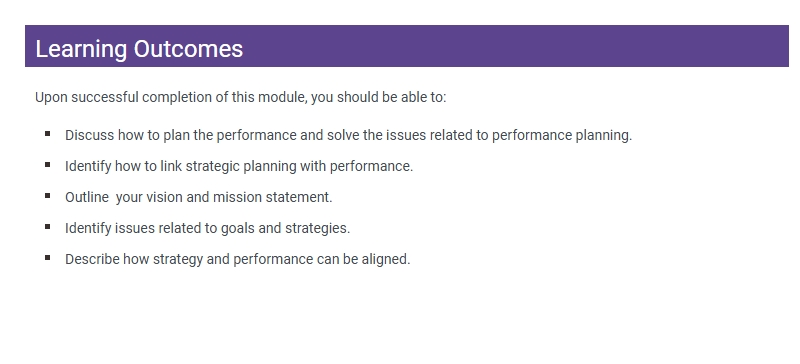
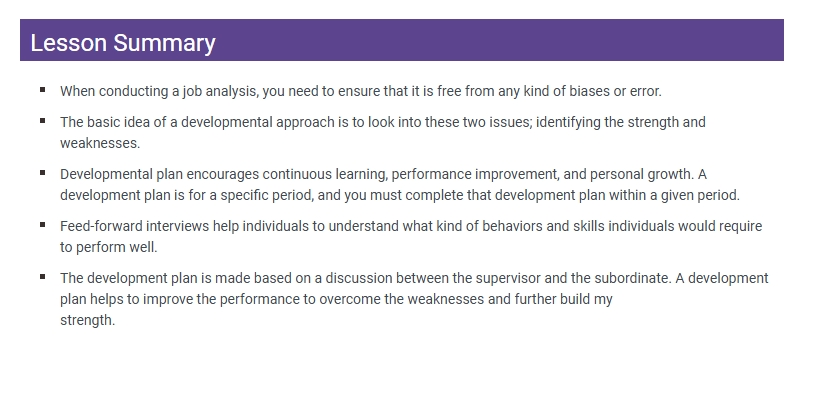
feat: add 14 more lessons to Diploma in strategic performance management (39 total)

Changed region(s): [[0.0, 0.0302, 1.0, 0.3324], [0.0312, 0.5137, 0.9375, 0.7857], [0.0625, 0.3324, 0.9062, 0.4835]]

diff --git a/backend/add_strategic_performance_more2.py b/backend/add_strategic_performance_more2.py
@@ -1,0 +1,62 @@
+#!/usr/bin/env python3
+import asyncio
+from motor.motor_asyncio import AsyncIOMotorClient
+import os
+from dotenv import load_dotenv
+from pathlib import Path
+import uuid
+
+ROOT_DIR = Path(__file__).parent
+load_dotenv(ROOT_DIR / '.env')
+client = AsyncIOMotorClient(os.environ['MONGO_URL'])
+db = client[os.environ['DB_NAME']]
+
+BASE_URL = "https://flowlms-production.up.railway.app"
+
+LESSONS = [
+    {"title": "Strategic Performance Diagram 5", "type": "image", "url": f"{BASE_URL}/uploads/images/HR/strategic_performance_management/strategic_performance_005.jpeg"},
+    {"title": "Strategic Performance Diagram 6", "type": "image", "url": f"{BASE_URL}/uploads/images/HR/strategic_performance_management/strategic_performance_006.jpeg"},
+    {"title": "Strategic Performance Diagram 7", "type": "image", "url": f"{BASE_URL}/uploads/images/HR/strategic_performance_management/strategic_performance_007.jpeg"},
+    {"title": "Performance (Determinants & Factors)", "type": "embed", "vimeo": "416548652"},
+    {"title": "Dimensions of Performance (Task & Context)", "type": "embed", "vimeo": "416549247"},
+    {"title": "Behavior Approach", "type": "embed", "vimeo": "416551347"},
+    {"title": "Result and Trait Approach", "type": "embed", "vimeo": "416550142"},
+    {"title": "Measuring Results, Determining Accountability & Examples", "type": "embed", "vimeo": "416552172"},
+    {"title": "Determining Performance Standards & Examples", "type": "embed", "vimeo": "416551854"},
+    {"title": "Measuring Behaviour (Competencies)", "type": "embed", "vimeo": "416552062"},
+    {"title": "Measurement System (Comparative)", "type": "embed", "vimeo": "416657670"},
+    {"title": "Measurement System (Absolute)", "type": "embed", "vimeo": "416656459"},
+    {"title": "Components & Characteristics of an Appraisal Form", "type": "embed", "vimeo": "416660320"},
+    {"title": "Determining Overall Rating, who should Provide PMI & Common Problems", "type": "embed", "vimeo": "416662367"},
+]
+
+def make_content(lesson):
+    if lesson["type"] == "image":
+        return f'<div style="text-align: center; padding: 20px;"><img src="{lesson["url"]}" alt="{lesson["title"]}" style="max-width: 100%; height: auto; border-radius: 8px; box-shadow: 0 4px 6px rgba(0,0,0,0.1);" /></div>'
+    else:
+        return f'<div style="text-align: center;"><iframe src="https://player.vimeo.com/video/{lesson["vimeo"]}?quality=720p&audiotrack=main&texttrack=en" width="960" height="540" frameborder="0" allow="autoplay; fullscreen; picture-in-picture" allowfullscreen></iframe></div>'
+
+async def add():
+    course = await db.courses.find_one(
+        {'title': {'$regex': 'diploma in strategic performance', '$options': 'i'}},
+        {'_id': 0, 'id': 1}
+    )
+    modules = await db.modules.find({'course_id': course['id']}).to_list(None)
+    module_id = modules[0]['id']
+
+    for i, lesson in enumerate(LESSONS):
+        await db.lessons.insert_one({
+            "id": str(uuid.uuid4()),
+            "module_id": module_id,
+            "title": lesson["title"],
+            "content_type": "text" if lesson["type"] == "image" else "embed",
+            "content": make_content(lesson),
+            "duration_minutes": 5 if lesson["type"] == "image" else 10,
+            "order": 25 + i
+        })
+        print(f"  [{25+i}] {lesson['title']}")
+
+    print(f"\nAdded {len(LESSONS)} lessons. Course now has {25 + len(LESSONS)} total lessons.")
+
+if __name__ == "__main__":
+    asyncio.run(add())